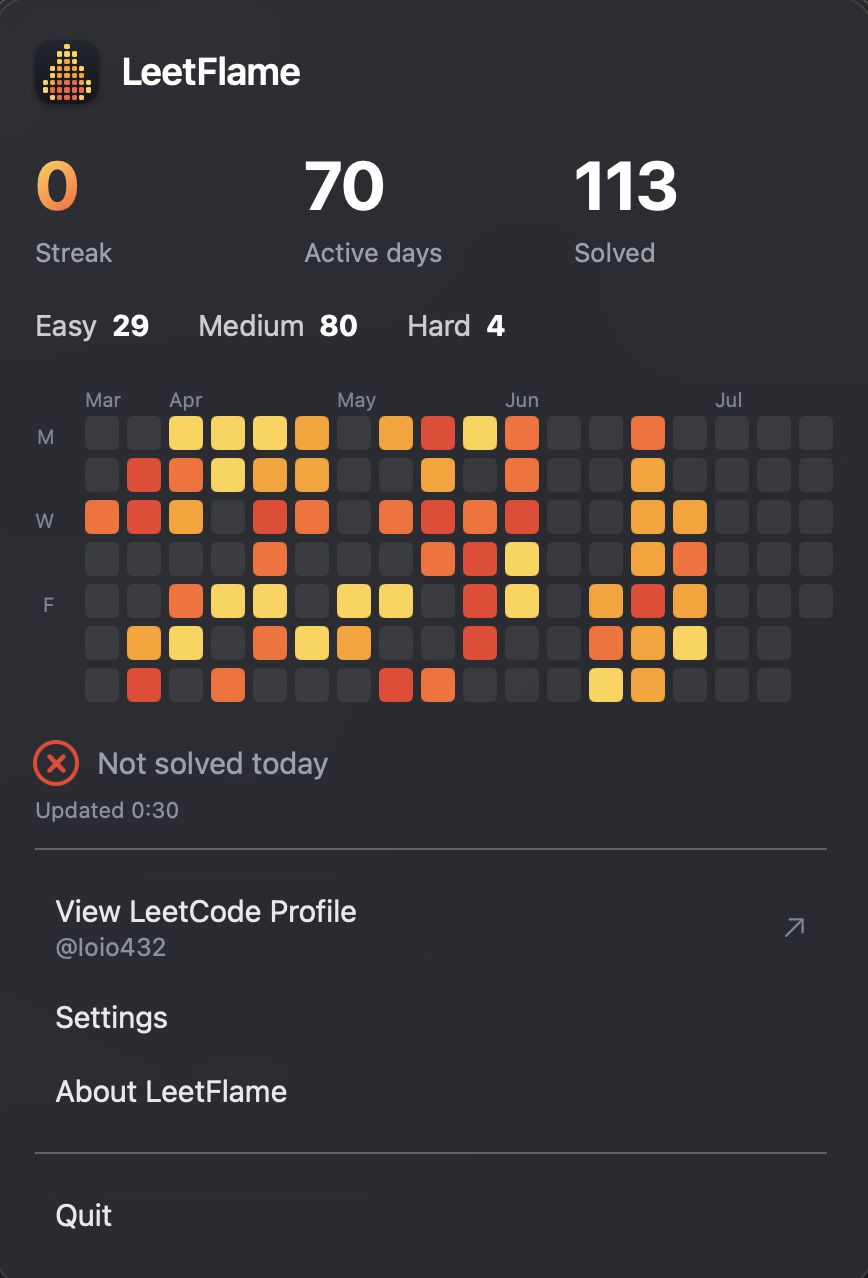
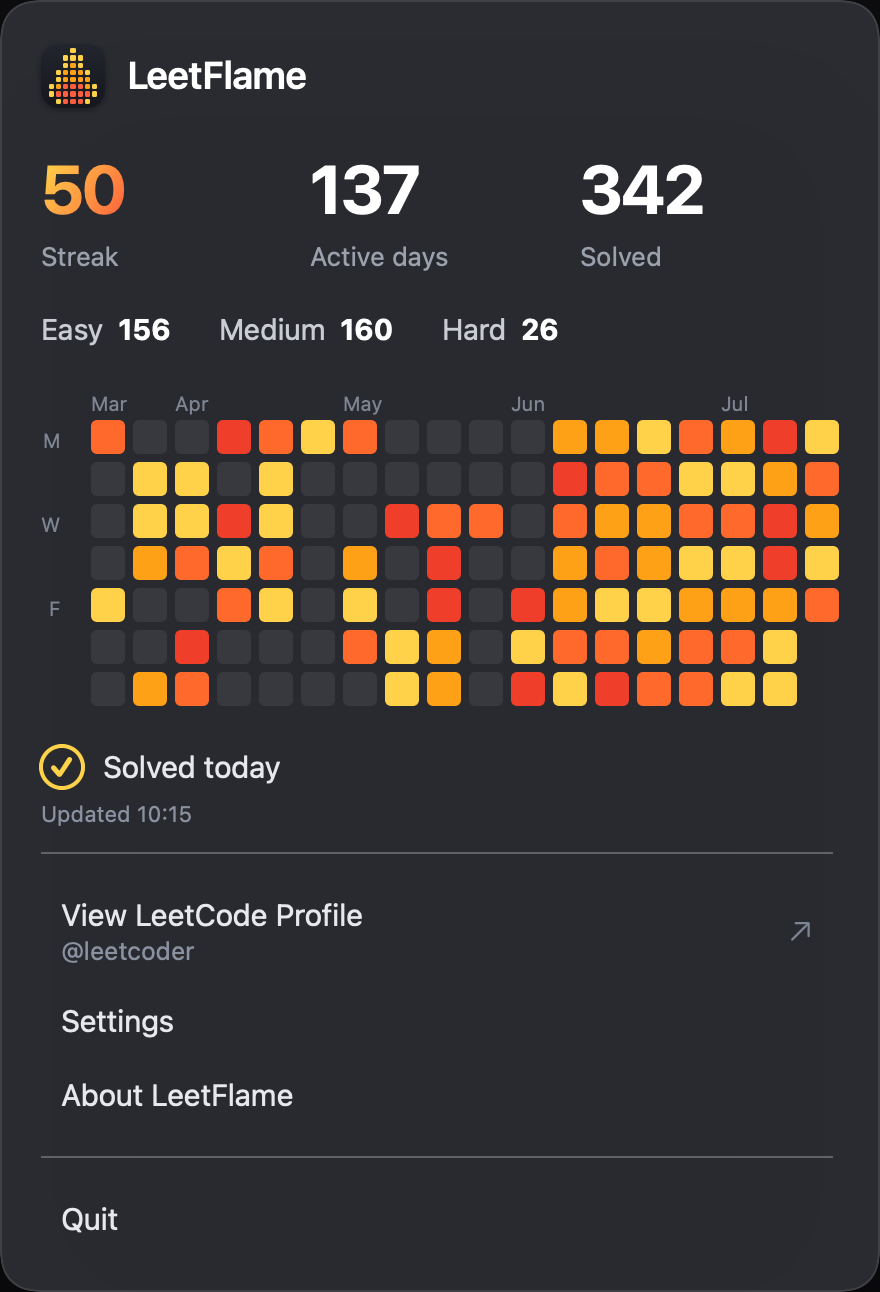
Generate README screenshot from app views with demo data
Add a hidden --render-screenshot mode that renders ContentView via
ImageRenderer with mock stats (50-day streak, sample heatmap, generic
username), and use its output as the README screenshot.

diff --git a/Sources/LeetCodeStreakWidget/ScreenshotRenderer.swift b/Sources/LeetCodeStreakWidget/ScreenshotRenderer.swift
@@ -1,0 +1,78 @@
+import SwiftUI
+import AppKit
+
+// Hidden mode used to generate the README screenshot from the app's own views
+// with mock data. Invoke via: LeetFlame --render-screenshot <output.png>
+enum ScreenshotRenderer {
+    @MainActor
+    static func run(outputPath: String) {
+        ScreenshotMode.isActive = true
+        let store = StreakStore()
+        store.username = "leetcoder"
+        store.stats = mockStats()
+        store.lastUpdated = Date()
+
+        let view = ZStack {
+            Color(hex: 0x0E0E10)
+            ContentView(store: store, onOpenSettings: {}, onOpenAbout: {}, onQuit: {})
+        }
+        .frame(width: 440)
+        .fixedSize()
+
+        let renderer = ImageRenderer(content: view)
+        renderer.scale = 2
+
+        guard
+            let nsImage = renderer.nsImage,
+            let tiff = nsImage.tiffRepresentation,
+            let rep = NSBitmapImageRep(data: tiff),
+            let png = rep.representation(using: .png, properties: [:])
+        else {
+            FileHandle.standardError.write(Data("Failed to render screenshot\n".utf8))
+            exit(1)
+        }
+
+        do {
+            try png.write(to: URL(fileURLWithPath: outputPath))
+            print("Screenshot written to \(outputPath)")
+            exit(0)
+        } catch {
+            FileHandle.standardError.write(Data("Write failed: \(error)\n".utf8))
+            exit(1)
+        }
+    }
+
+    private static func mockStats() -> LeetCodeStats {
+        var cal = Calendar(identifier: .gregorian)
+        cal.timeZone = TimeZone(identifier: "UTC")!
+        let today = cal.startOfDay(for: Date())
+
+        var calendar: [Date: Int] = [:]
+        func setDay(_ offset: Int, _ count: Int) {
+            let day = cal.date(byAdding: .day, value: -offset, to: today)!
+            let noon = cal.date(byAdding: .hour, value: 12, to: day)!
+            calendar[noon] = count
+        }
+
+        // A real 50-day streak: consecutive days 0...49 ending today.
+        for offset in 0..<50 {
+            setDay(offset, Int.random(in: 1...8))
+        }
+        // Days 50 and 51 stay empty so the streak stops at exactly 50, then
+        // scattered earlier activity fills out the rest of the heatmap window.
+        for offset in 52..<130 where Bool.random() {
+            setDay(offset, Int.random(in: 1...9))
+        }
+
+        return LeetCodeStats(
+            username: "leetcoder",
+            streak: 50,
+            totalActiveDays: 137,
+            totalSolved: 342,
+            easySolved: 156,
+            mediumSolved: 160,
+            hardSolved: 26,
+            submissionCalendar: calendar
+        )
+    }
+}

diff --git a/Sources/LeetCodeStreakWidget/ContentView.swift b/Sources/LeetCodeStreakWidget/ContentView.swift
@@ -234,7 +234,14 @@ private struct PopoverBackground: View {
     let opacity: Double
     var body: some View {
         ZStack {
-            VisualEffectBlur()
+            // ImageRenderer (screenshot mode) can't capture an NSVisualEffectView,
+            // so use an opaque approximation of the blurred surface instead.
+            if ScreenshotMode.isActive {
+                RoundedRectangle(cornerRadius: 18)
+                    .fill(Color(hex: 0x24262C))
+            } else {
+                VisualEffectBlur()
+            }
             RoundedRectangle(cornerRadius: 18)
                 .fill(Color(hex: 0x2C2E34, alpha: opacity))
             RoundedRectangle(cornerRadius: 18)
@@ -243,6 +250,12 @@ private struct PopoverBackground: View {
         .clipShape(RoundedRectangle(cornerRadius: 18))
         .shadow(color: .black.opacity(0.5), radius: 40, x: 0, y: 30)
     }
+}
+
+/// Set while rendering the README screenshot so views can avoid AppKit-backed
+/// content that ImageRenderer cannot capture.
+enum ScreenshotMode {
+    static var isActive = false
 }
 
 private struct VisualEffectBlur: NSViewRepresentable {

diff --git a/Sources/LeetCodeStreakWidget/AppDelegate.swift b/Sources/LeetCodeStreakWidget/AppDelegate.swift
@@ -12,6 +12,13 @@ final class AppDelegate: NSObject, NSApplicationDelegate {
     private let flameIcon = FlameIconRenderer.makeStatusIcon()
 
     func applicationDidFinishLaunching(_ notification: Notification) {
+        // Hidden screenshot mode: render docs/screenshot.png and exit.
+        if let idx = CommandLine.arguments.firstIndex(of: "--render-screenshot"),
+           idx + 1 < CommandLine.arguments.count {
+            ScreenshotRenderer.run(outputPath: CommandLine.arguments[idx + 1])
+            return
+        }
+
         statusItem = NSStatusBar.system.statusItem(withLength: NSStatusItem.variableLength)
         statusItem.button?.image = flameIcon
         statusItem.button?.imagePosition = .imageLeading

diff --git a/Sources/LeetCodeStreakWidget/main.swift b/Sources/LeetCodeStreakWidget/main.swift
@@ -1,6 +1,8 @@
 import AppKit
 
 let app = NSApplication.shared
+// Screenshot mode still needs a launched app; AppDelegate handles it in
+// applicationDidFinishLaunching and exits when done.
 app.setActivationPolicy(.accessory)
 let delegate = AppDelegate()
 app.delegate = delegate